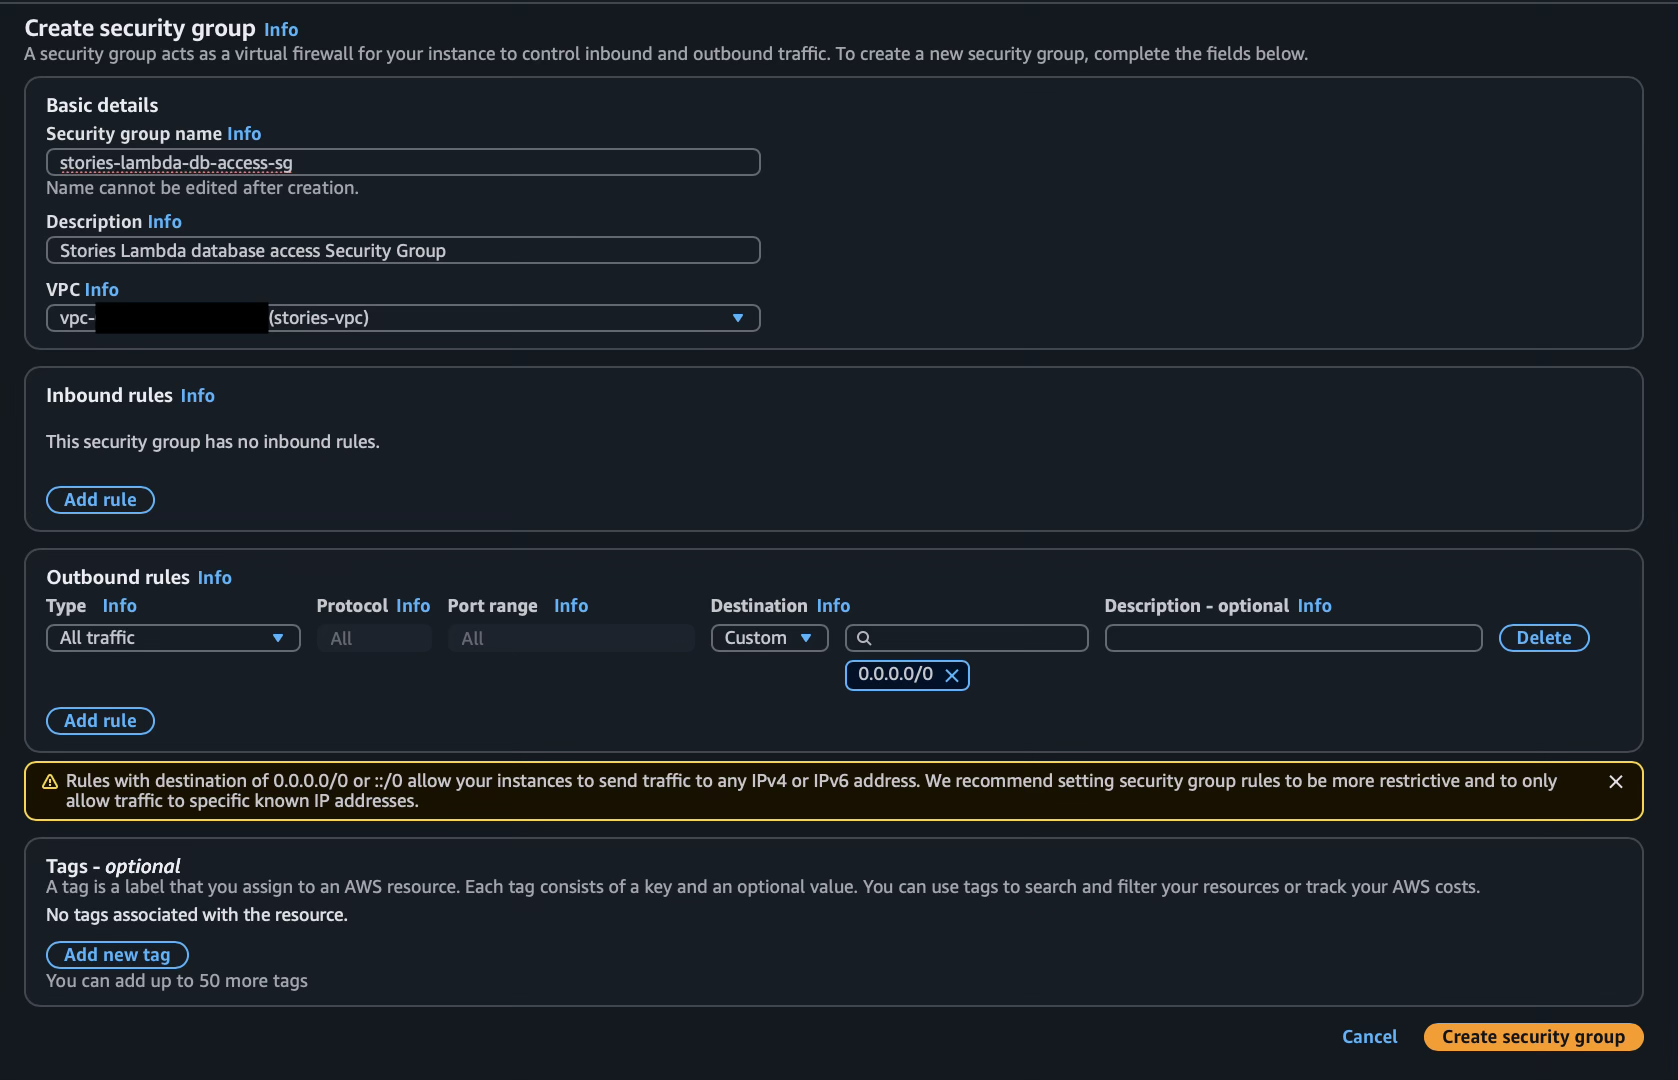
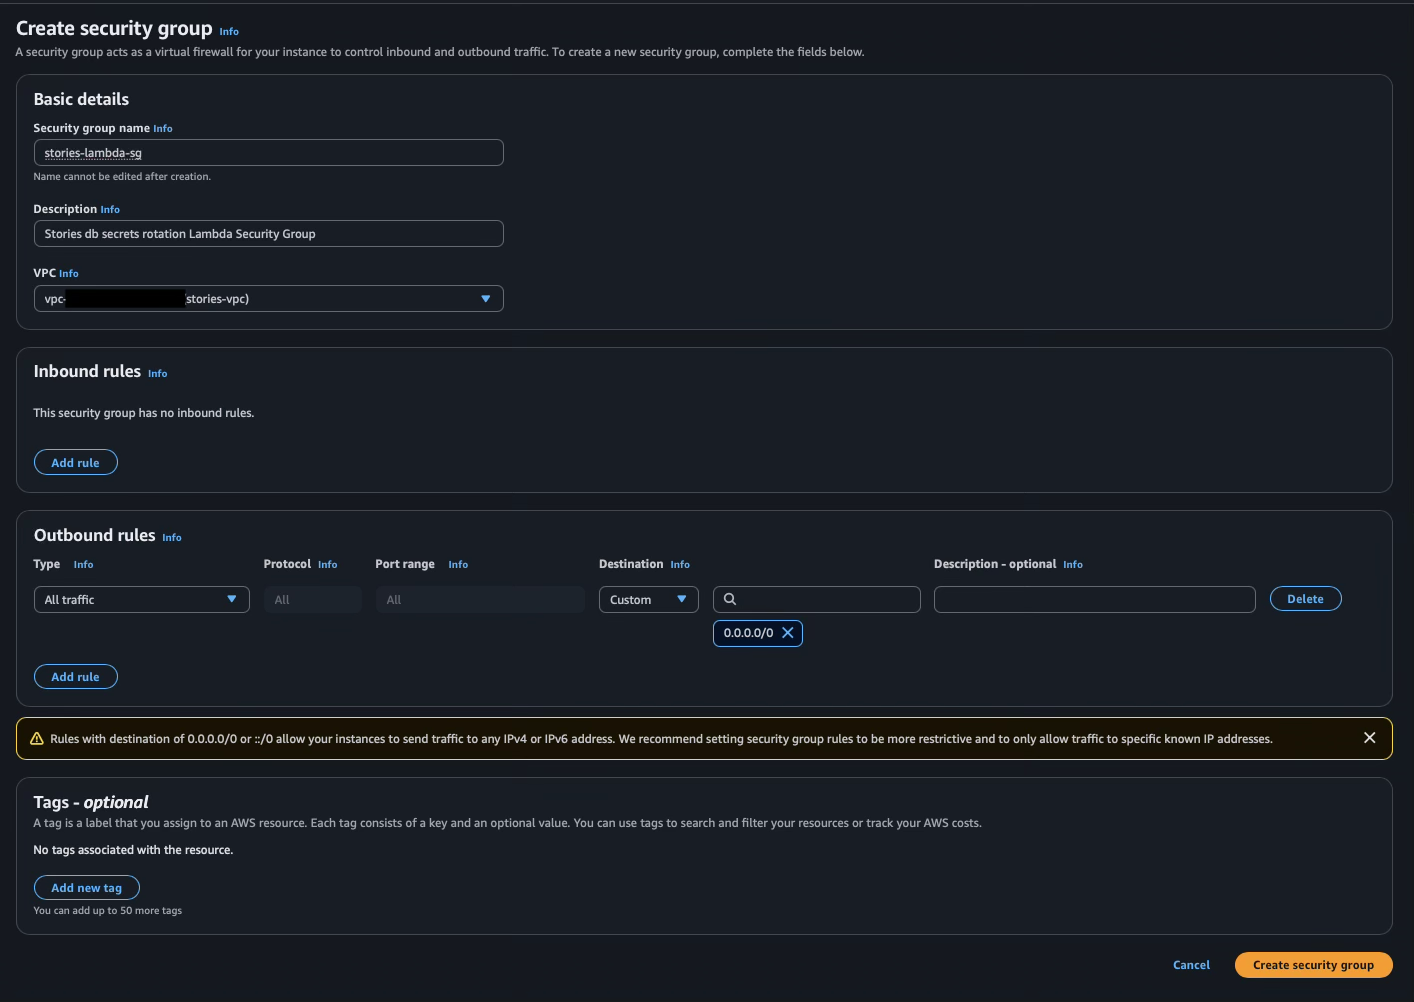
update guide

diff --git a/guide/cicd-guide.md b/guide/cicd-guide.md
@@ -113,7 +113,7 @@ spring:
 ## AWS Security Group 
 
 - In **VPC** dashboard, go to *Security groups* and select "Create security group" 
-- Create following security groups:
+- Create following *Security groups*:
 
 ![img.png](cicd-guide-img/img7.png)
 
@@ -166,7 +166,7 @@ spring:
 
 ## AWS Secrets Manager, Secret rotation with Lambda, VPC endpoint
 
-- Create the following *Security group*
+- Create the following *Security group*:
 
 ![img.png](cicd-guide-img/img18.png)
 
@@ -174,7 +174,7 @@ spring:
 
 ![img_1.png](cicd-guide-img/img19.png)
 
-- Navigate to the **AWS Secrets Manager** service and select "Store a new secret"
+- Navigate to the **AWS Secrets Manager** dashboard and select "Store a new secret"
 
 ![img_2.png](cicd-guide-img/img20.png)
 
@@ -188,14 +188,14 @@ spring:
 
 ![img_6.png](cicd-guide-img/img24.png)
 
-- Navigate to the **Lambda** service and select the created Lambda function. 
-- Then select "Configuration" and from there select "VPC" and then "Edit" and change *Security group* for "stories-lambda-db-access-sg"
+- Navigate to the **Lambda** dashboard and select the created Lambda function. 
+- Then select "Configuration" and from there select "VPC" and then "Edit" and change *Security group* for "stories-lambda-sg"
 
-![img_7.png](cicd-guide-img/img25.png)
+![img.png](cicd-guide-img/img25.png)
 
 - Next create following *Security group*:
 
-![img_13.png](cicd-guide-img/img26.png)
+![img.png](cicd-guide-img/img26.png)
 
 
 - Navigate to **VPC** service, go to *Endpoints* and "Create endpoint".
@@ -206,8 +206,7 @@ https://docs.aws.amazon.com/secretsmanager/latest/userguide/vpc-endpoint-overvie
 
 ![img_14.png](cicd-guide-img/img28.png)
 
-![img_15.png](cicd-guide-img/img29.png)
-
+![img.png](cicd-guide-img/img29.png)
 
 - After the endpoint is created, you can test the secret rotation in **Secrets Manger** under *Rotation* -> "Rotate secrets immediately".
 
@@ -272,8 +271,7 @@ https://docs.aws.amazon.com/AmazonECS/latest/developerguide/networking-connectin
 
 - We also need to add *stories-vpc-endpoint-app-sg* to the *stories-vpc-endpoint-secrets-manager* endpoint's security groups so navigate to that endpoint and add select "Manage security groups":
 
-![img_13.png](cicd-guide-img/img67.png)
-
+![img.png](cicd-guide-img/img67.png)
 
 
 ## IAM Roles & Policies
